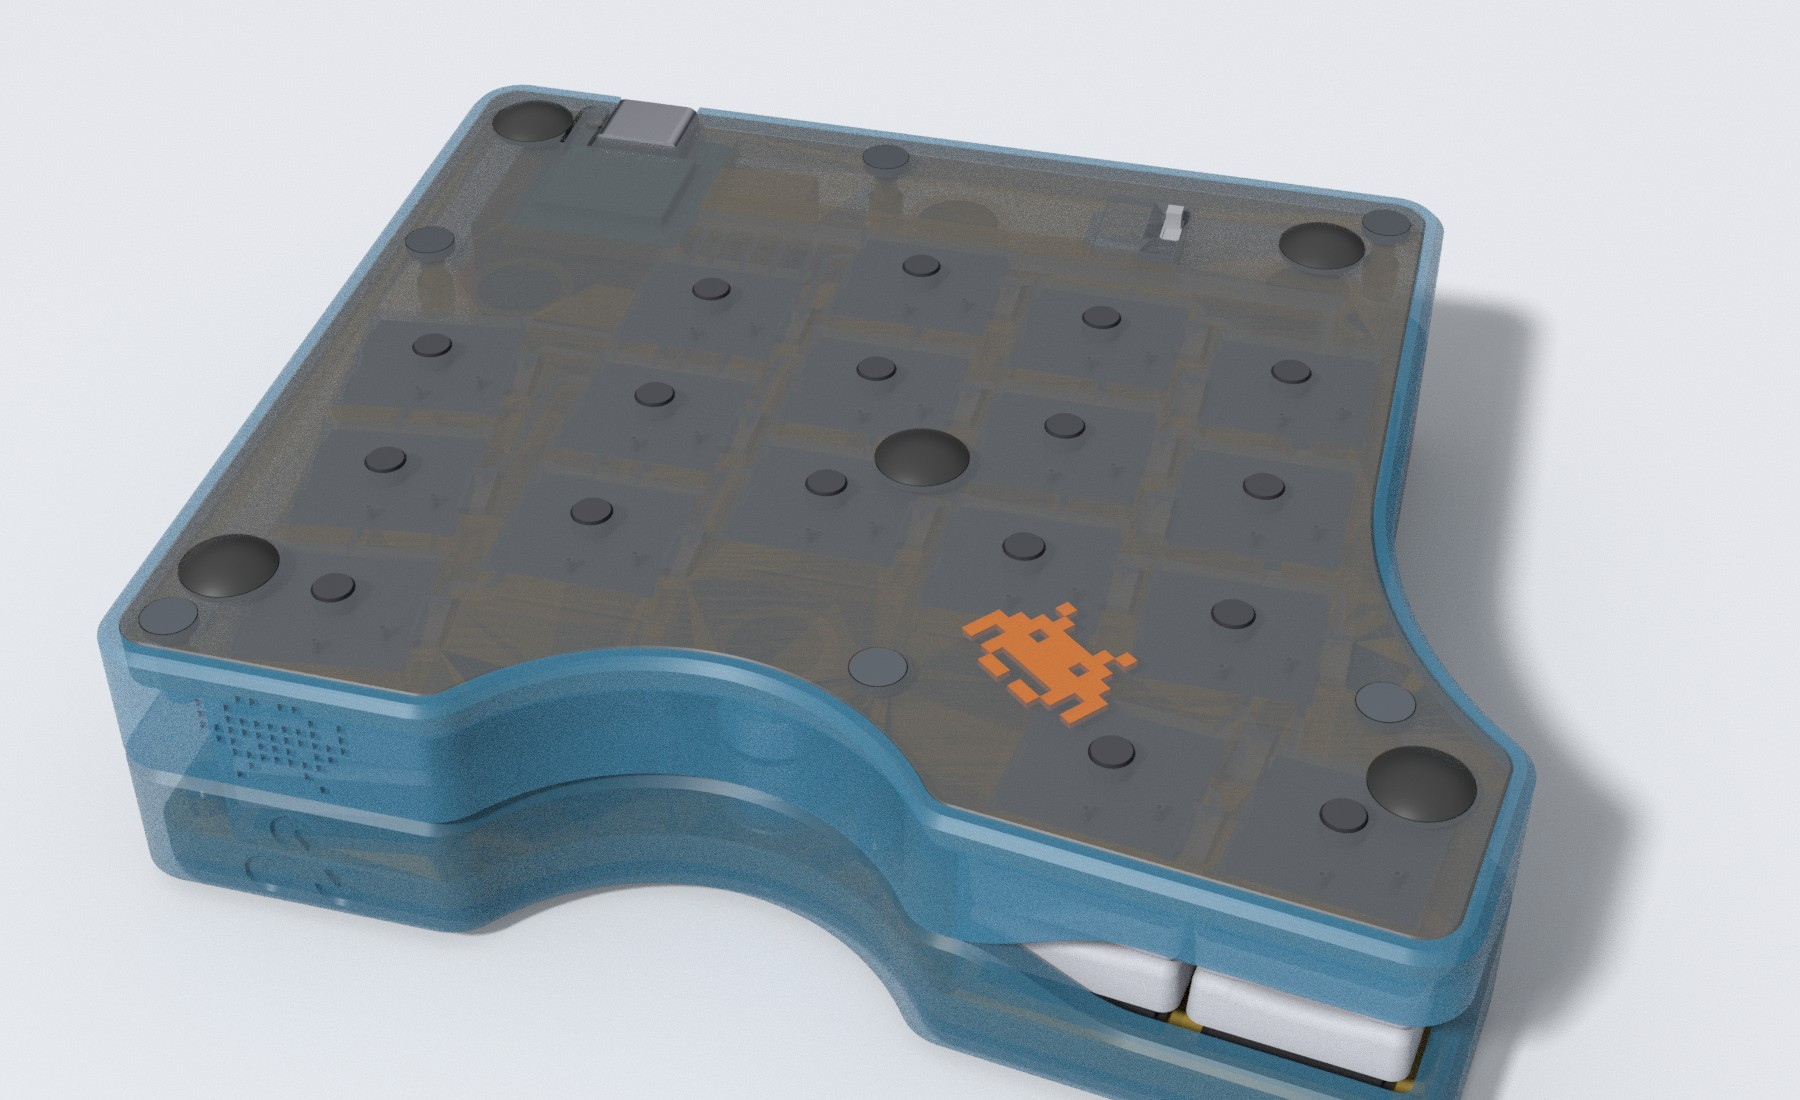
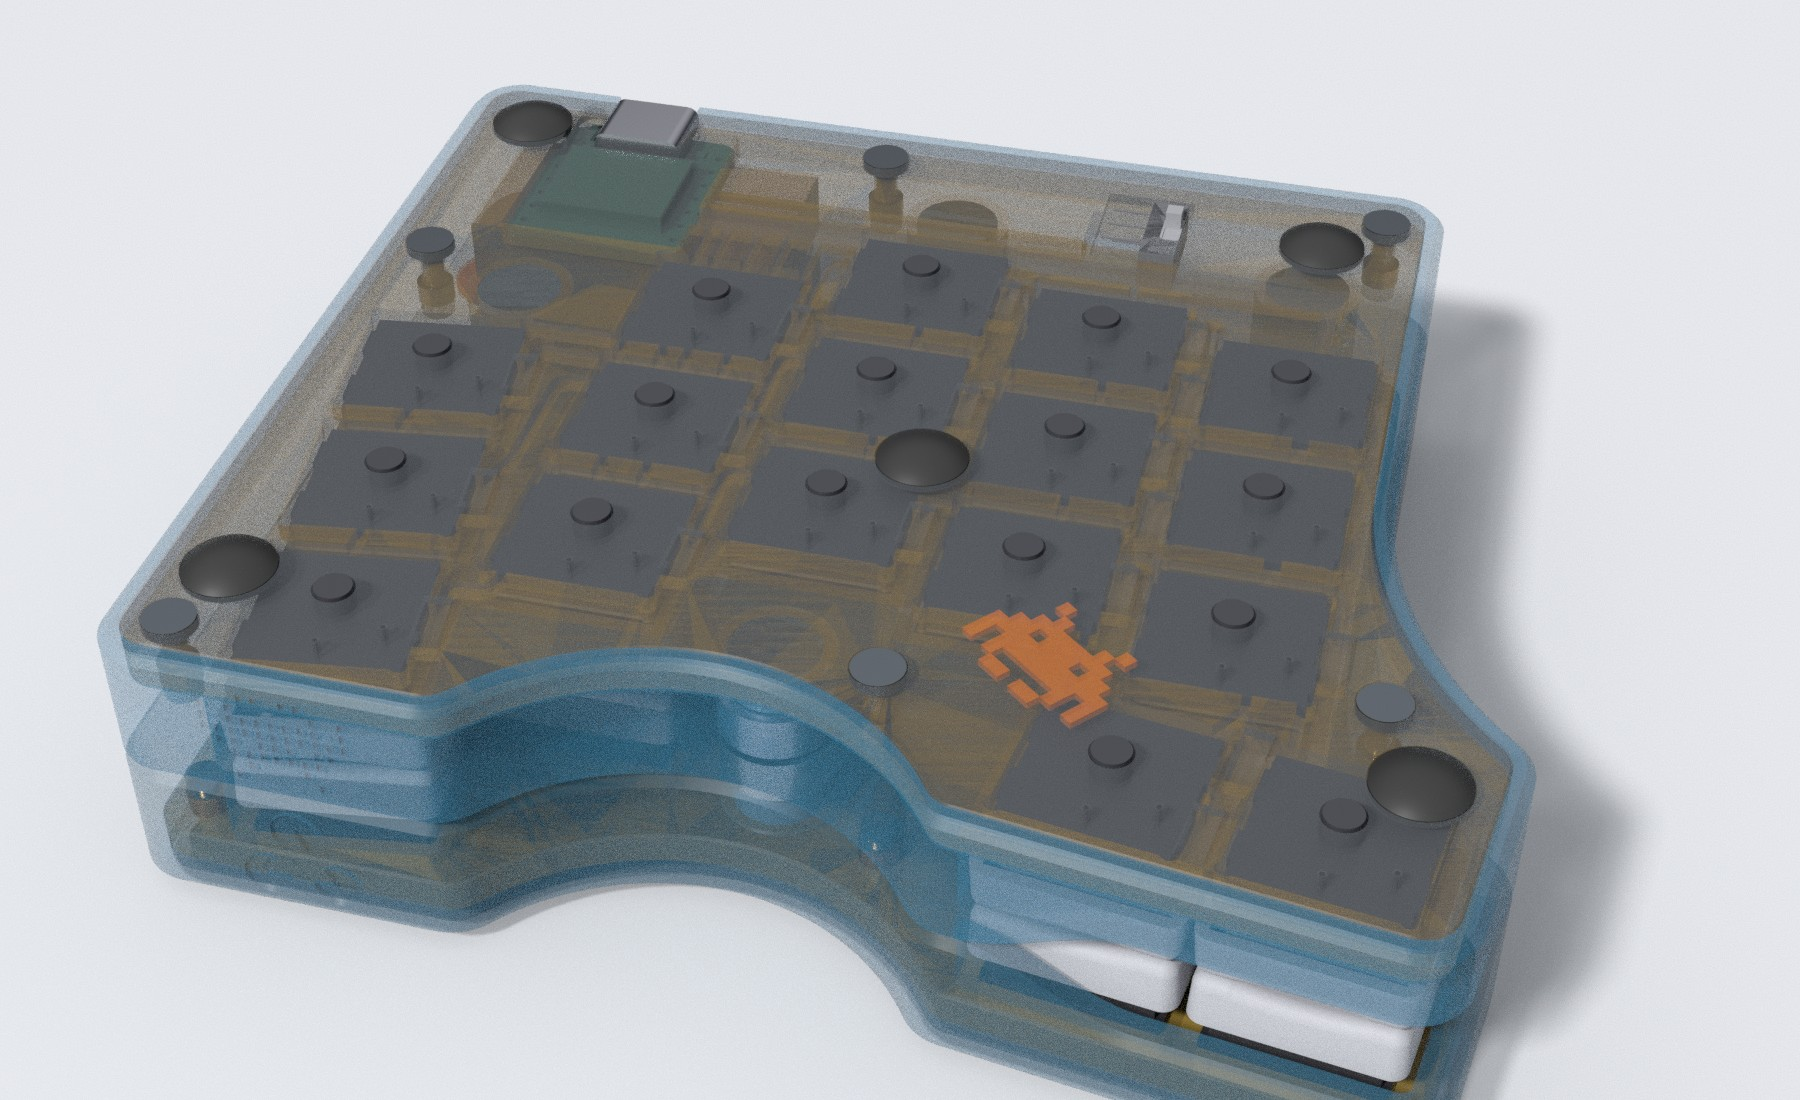
fix: adjust GHOST_ALPHA value for improved visual representation

diff --git a/src/duality_wave/builders/parts.py b/src/duality_wave/builders/parts.py
@@ -45,7 +45,7 @@ GROUPS: dict[str, PartGroup] = {group.name: group for group in (
 )}
 
 # the opacity of the see-through groups in the ghost style
-GHOST_ALPHA = 0.5
+GHOST_ALPHA = 0.3
 
 # how far the lightness of the right half differs from the left half
 SIDE_TINT = 0.07
